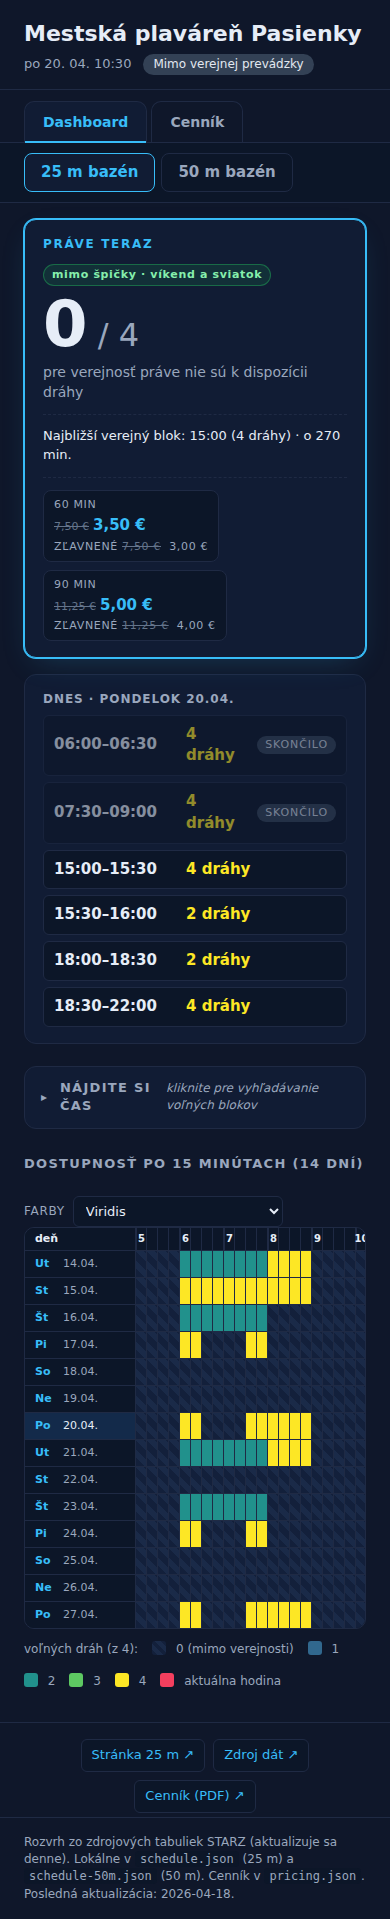
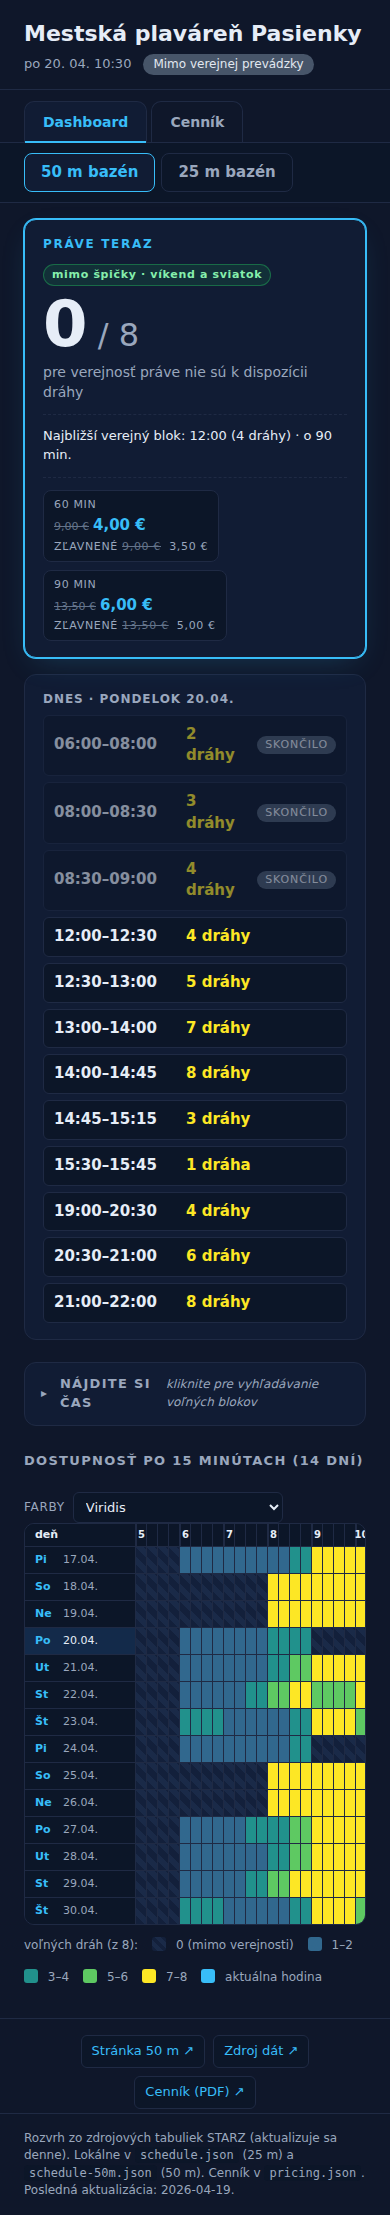
Adopt Palette A status colors (green/blue/slate)
- Open pool pill → emerald #10b981 (was lane-4 yellow)
- Closed pool pill → slate #475569 with lighter text
- 'Prebieha' tag + live block border + heatmap current-hour marker →
  sky blue #38bdf8, aligning with the now-card accent border
- 'Skončilo' past tag → same slate as closed pill for consistency

Refresh all main screenshots; drop preview PNGs.

diff --git a/styles.css b/styles.css
@@ -7,7 +7,7 @@
   --muted: #9aa7bd;
   --accent: #38bdf8;
   --accent-2: #6366f1;
-  --now: #f43f5e;
+  --now: #38bdf8;
   --lane-0: #1b2744;
   --lane-1: #31688e;
   --lane-2: #21918c;
@@ -87,8 +87,8 @@ header .meta { display: flex; gap: 12px; align-items: center; font-size: 13px; c
   background: var(--line);
   color: var(--muted);
 }
-.pill.open { background: var(--lane-4); color: #052e14; }
-.pill.closed { background: #334155; color: #e2e8f0; }
+.pill.open { background: #10b981; color: #052e14; }
+.pill.closed { background: #475569; color: #e2e8f0; }
 
 .muted { color: var(--muted); }
 
@@ -263,12 +263,12 @@ main { padding: 16px 24px 32px; max-width: 1200px; margin: 0 auto; }
   padding: 8px 10px; border-radius: 6px;
   background: var(--panel-2); border: 1px solid var(--line);
 }
-.blocks li.live { border-color: var(--now); background: #1a1020; }
+.blocks li.live { border-color: var(--now); background: #0a1c2e; }
 .blocks li.past { opacity: .55; }
 .blocks .time { font-variant-numeric: tabular-nums; font-weight: 600; min-width: 120px; }
 .blocks .lanes { color: var(--lane-4); font-weight: 600; }
-.blocks .tag { margin-left: auto; font-size: 11px; padding: 1px 8px; border-radius: 999px; background: var(--now); color: #fff; text-transform: uppercase; letter-spacing: .08em; }
-.blocks .tag.past { background: #334155; color: #cbd5e1; }
+.blocks .tag { margin-left: auto; font-size: 11px; padding: 1px 8px; border-radius: 999px; background: var(--now); color: #02223a; text-transform: uppercase; letter-spacing: .08em; }
+.blocks .tag.past { background: #475569; color: #e2e8f0; }
 
 .section-title {
   margin: 18px 0 10px;
@@ -459,10 +459,10 @@ main { padding: 16px 24px 32px; max-width: 1200px; margin: 0 auto; }
 .cell.now.now-start { box-shadow: inset 2px 0 0 0 var(--now), inset 0 2px 0 0 var(--now), inset 0 -2px 0 0 var(--now); }
 .cell.now.now-end   { box-shadow: inset -2px 0 0 0 var(--now), inset 0 2px 0 0 var(--now), inset 0 -2px 0 0 var(--now); }
 .cell.now.now-start.now-end { box-shadow: inset 0 0 0 2px var(--now); }
-.cell.now-col { background: rgba(244, 63, 94, 0.08); }
-.cell.now-col.header { background: #2a0f1a; color: #fecdd3; }
-.cell.now-col.now-col-start { box-shadow: inset 2px 0 0 0 rgba(244,63,94,0.55); }
-.cell.now-col.now-col-end { box-shadow: inset -2px 0 0 0 rgba(244,63,94,0.55); }
+.cell.now-col { background: rgba(56, 189, 248, 0.08); }
+.cell.now-col.header { background: #0f2236; color: #bae6fd; }
+.cell.now-col.now-col-start { box-shadow: inset 2px 0 0 0 rgba(56,189,248,0.55); }
+.cell.now-col.now-col-end { box-shadow: inset -2px 0 0 0 rgba(56,189,248,0.55); }
 .cell.match { outline: 2px solid var(--accent); outline-offset: -2px; z-index: 2; }
 
 .legend { display: flex; gap: 14px; flex-wrap: wrap; margin-top: 12px; font-size: 12px; color: var(--muted); align-items: center; }
